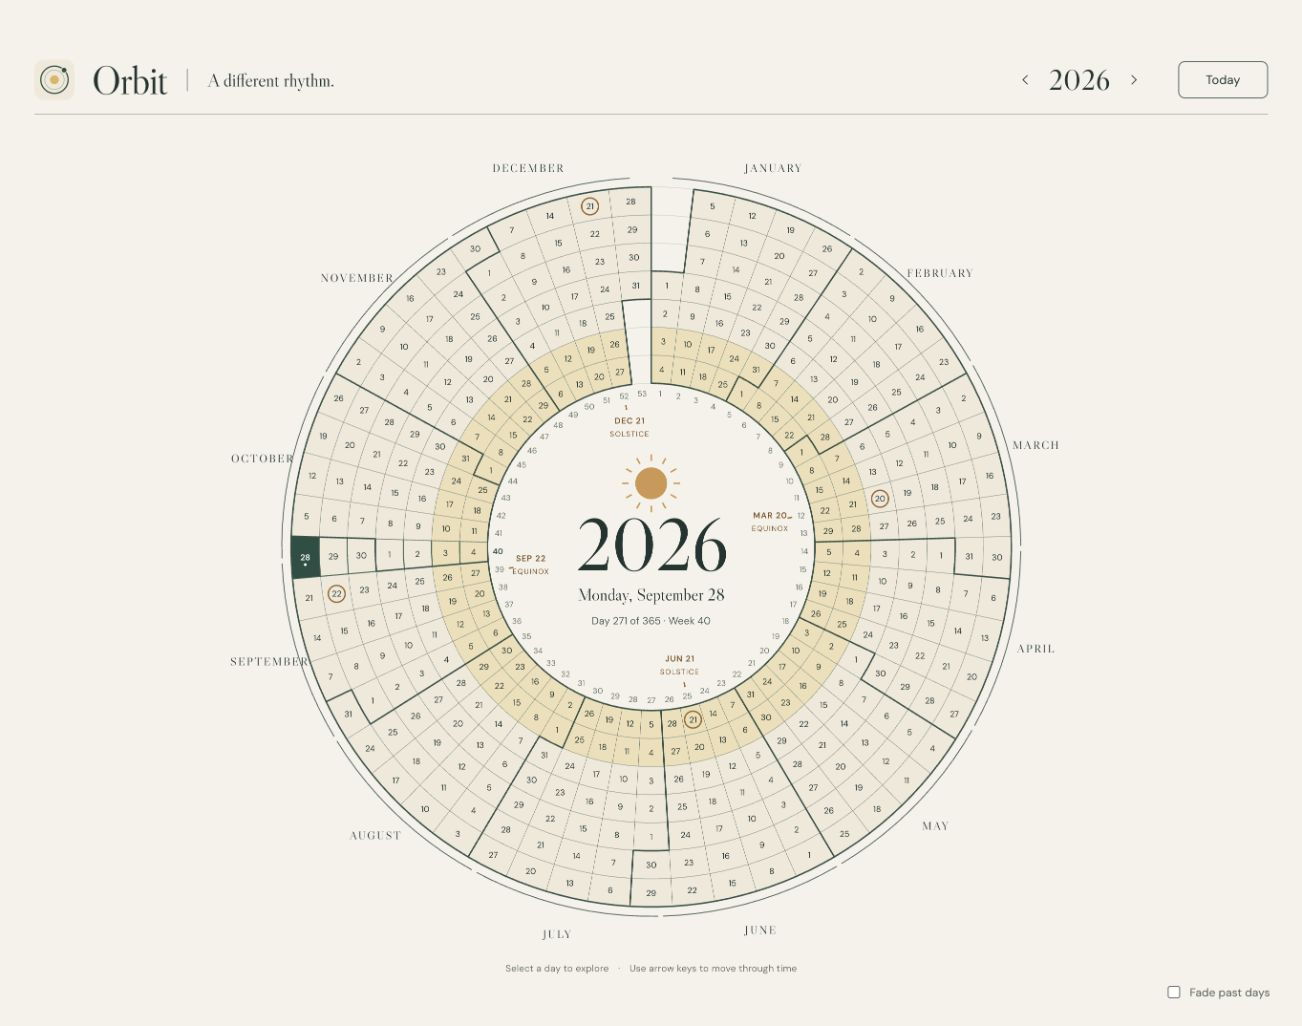
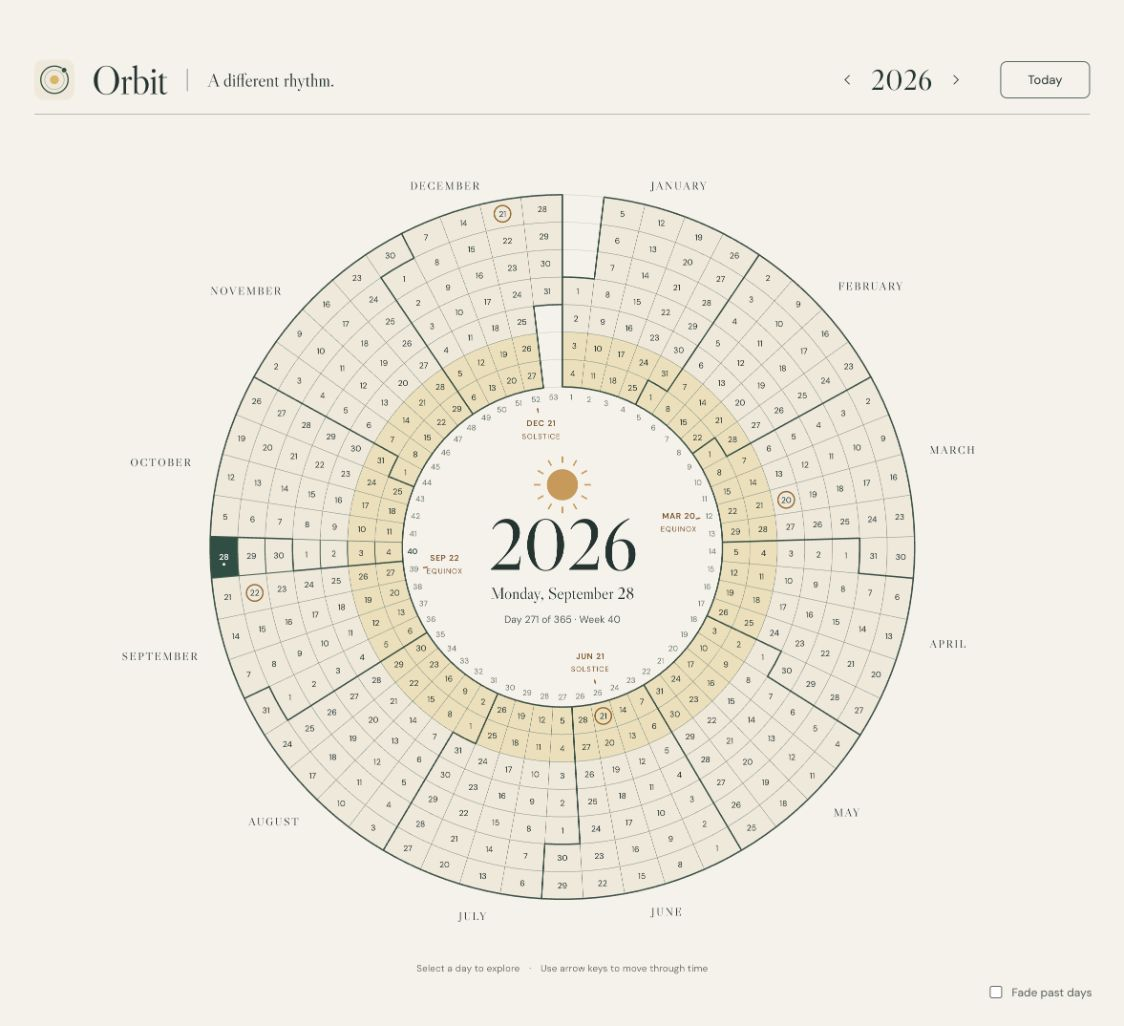
Balance month labels and remove redundant indicator arcs

diff --git a/src/components/OrbitCalendar.jsx b/src/components/OrbitCalendar.jsx
@@ -58,7 +58,7 @@ export default function OrbitCalendar({ calendar, seasons, selected, today, onSe
   return <div className="orbit-stage">
     <label className="fade-past-control"><input type="checkbox" checked={fadePast} onChange={event => setFadePast(event.target.checked)} /> Fade past days</label>
     <div className={`orbit-viewport${zoomed ? ' is-zoomed' : ''}`}>
-    <svg className="calendar" viewBox="0 0 900 900" aria-labelledby="calendar-title calendar-description">
+    <svg className="calendar" viewBox="-55 -10 1010 920" aria-labelledby="calendar-title calendar-description">
       <title id="calendar-title">{calendar.year} orbital calendar</title>
       <desc id="calendar-description">Seven rings: Monday outermost to Sunday innermost. Each spoke is one week, with its ISO week number just inside the inner ring. Select a date to explore. Arrow left and right move one week; up and down move one day.</desc>
       {calendar.weeks.flat().map(({ date, key, track, week, inYear }) => {
@@ -92,11 +92,13 @@ export default function OrbitCalendar({ calendar, seasons, selected, today, onSe
         const first = cells[0], last = cells.at(-1);
         const a = (first.week + first.track / 7) * step;
         const b = (last.week + (last.track + 1) / 7) * step;
-        const [x, y] = point(426, (a + b) / 2);
+        const angle = (a + b) / 2;
+        const side = Math.sin(angle);
+        const [x, y] = point(415, angle);
+        const anchor = side < -.4 ? 'end' : side > .4 ? 'start' : 'middle';
         return <g key={month} className="month-marker" aria-hidden="true">
           <path className="month-outline" d={monthOutline(calendar.weeks, month, step)} />
-          <path d={`M ${point(395, a + .007)} A 395 395 0 0 1 ${point(395, b - .007)}`} fill="none" stroke="#607468" strokeWidth="1" />
-          <text x={x} y={y} dy=".35em">{formatDate(first.date, { month: 'long' }).toUpperCase()}</text>
+          <text x={x} y={y} dy=".35em" style={{ textAnchor: anchor }}>{formatDate(first.date, { month: 'long' }).toUpperCase()}</text>
         </g>;
       })}
       {calendar.weeks.map((week, index) => {

diff --git a/src/styles.css b/src/styles.css
@@ -140,7 +140,7 @@ footer { display: flex; justify-content: space-between; border-top: 1px solid va
 
 /* Let the orbit use the full canvas now that date details live at its center. */
 main { display: flex; justify-content: center; padding: 12px 0 18px; }
-.orbit-stage { width: min(100%, calc(100svh - 145px)); margin-inline: auto; }
+.orbit-stage { width: min(100%, calc(109.78svh - 159px)); margin-inline: auto; }
 .calendar { max-height: none; }
 .center-caption { font-style: normal; font-size: 18px; }
 @media (max-width: 800px) { .orbit-stage { width: 100%; } }
